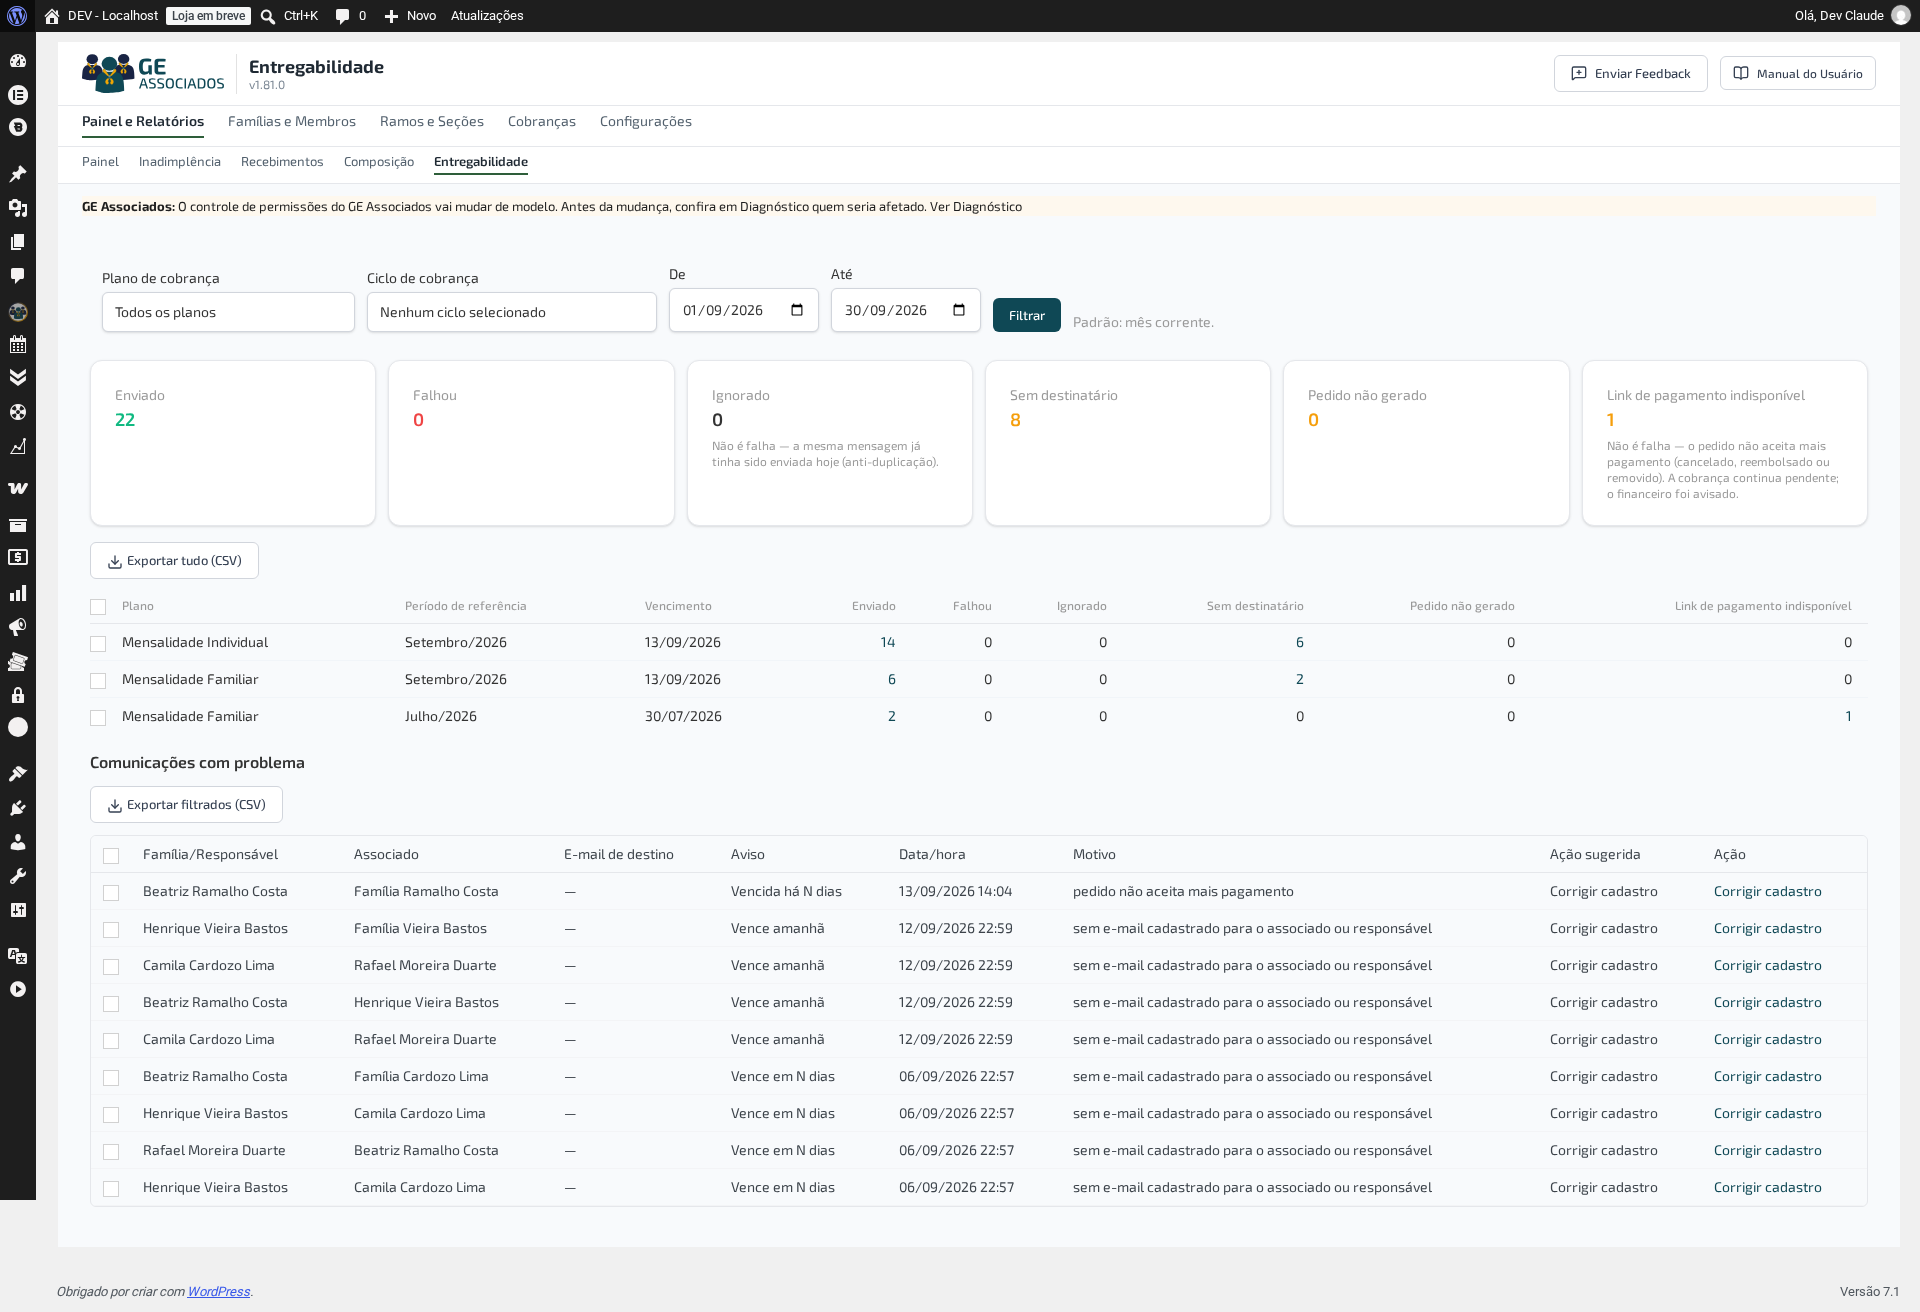
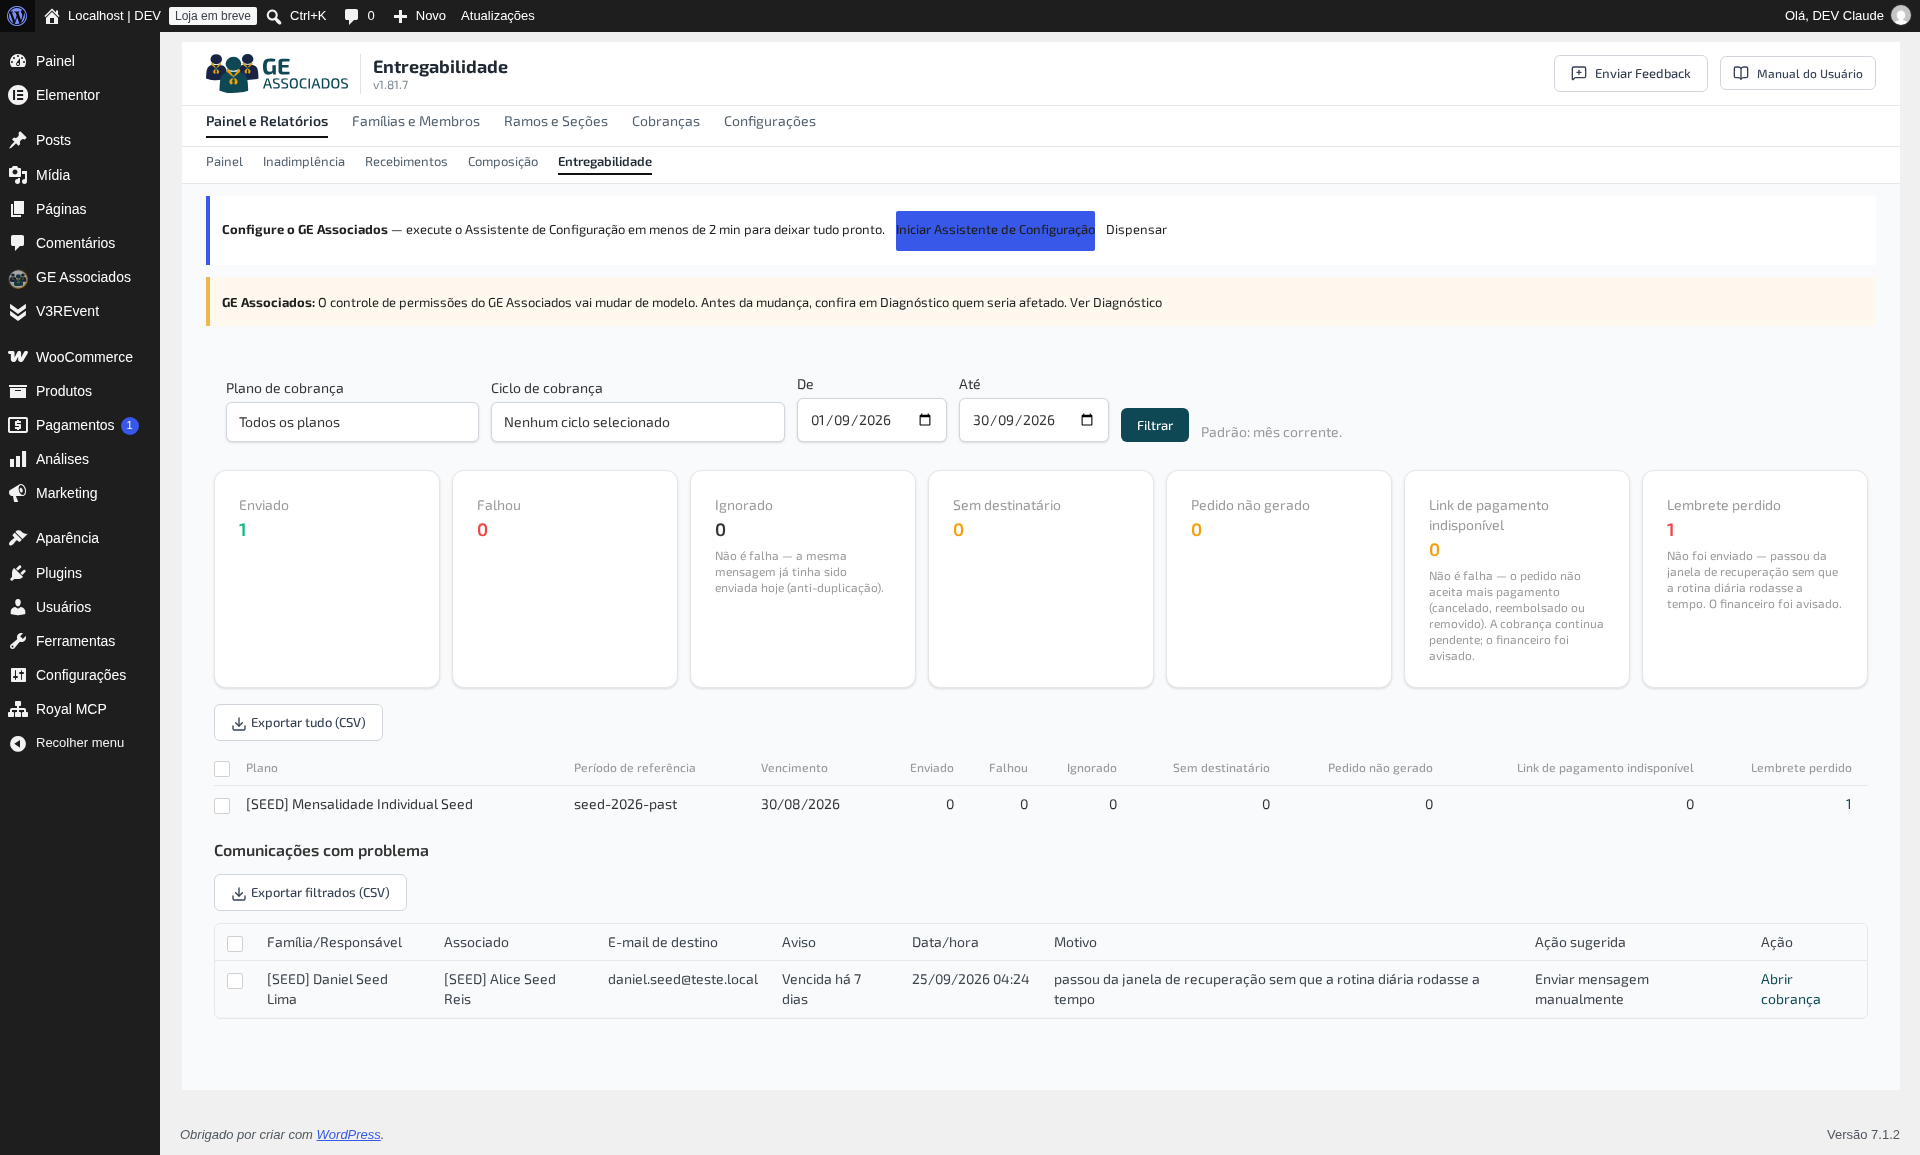
docs: manual cobre os dias em atraso, o lembrete perdido e a recuperação de 3 dias
Comunicação: novo marcador de dias em atraso nos modelos de e-mail, com o
número calculado no envio.
Entregabilidade: a sétima situação, "Lembrete perdido" — o que é, por que
não tem volta, por que aparece na lista por padrão e por que não pode ser
reenviada, sozinha ou em lote.
Inadimplência: a última comunicação passou a dizer qual aviso saiu.
Novidades: as duas entradas correspondentes.

Prints da Entregabilidade recapturados na v1.81.7, depois da troca de
"cron" por "rotina diária" no texto da tela — as capturas anteriores tinham
congelado o jargão. Print novo do modelo de e-mail com o marcador.

Corrige também um alt-text que dizia "cinco situações" quando o texto já
falava em seis.

diff --git a/modulos/entregabilidade.md b/modulos/entregabilidade.md
@@ -11,7 +11,7 @@ nav_order: 5
 Mostra, por ciclo de cobrança, se os e-mails realmente chegaram aos responsáveis — e deixa
 corrigir e reenviar direto daqui, sem precisar caçar cada caso por fora.
 
-![Relatório de entregabilidade por ciclo, com as cinco situações de envio somadas no topo e detalhadas por ciclo na tabela](/assets/img/relatorio-entregabilidade.png)
+![Relatório de entregabilidade por ciclo, com as sete situações de envio somadas no topo e detalhadas por ciclo na tabela](/assets/img/relatorio-entregabilidade.png)
 
 ## Filtros
 
@@ -21,7 +21,7 @@ escolha.
 
 ## O que você vê
 
-Por ciclo, cada e-mail cai em uma de seis situações:
+Por ciclo, cada e-mail cai em uma de sete situações:
 
 | Situação | O que significa | O que fazer |
 |---|---|---|
@@ -31,20 +31,31 @@ Por ciclo, cada e-mail cai em uma de seis situações:
 | **Sem destinatário** | Não havia e-mail cadastrado para aquela cobrança | Cadastrar o e-mail do responsável ou do associado |
 | **Pedido não gerado** | A cobrança ainda não virou pedido, então não existe link de pagamento | Gerar o pedido em [Cobranças](/modulos/cobrancas/) |
 | **Link de pagamento indisponível** | O pedido existe, mas não aceita mais pagamento — já foi concluído ou cancelado direto no WooCommerce | Conferir o status da cobrança; se ainda precisa cobrar, gerar um pedido novo |
+| **Lembrete perdido** | O lembrete de atraso não saiu no dia certo, a tentativa de recuperação (até 3 dias) também passou, e o envio automático já não vai mais acontecer para aquela cobrança | Enviar mensagem manualmente — veja [Inadimplência](/modulos/inadimplencia/#enviar-mensagem) |
 
 {: .tip }
 Se um responsável reclamar que não recebeu a cobrança, esta é a tela para verificar antes
 de qualquer outra coisa. As situações têm causas diferentes e soluções diferentes —
 "falhou" é problema de envio do site, "sem destinatário" é cadastro incompleto, "pedido
-não gerado" é cobrança que ainda não está pronta para ser paga, e "link de pagamento
-indisponível" é um pedido que já saiu de circulação.
+não gerado" é cobrança que ainda não está pronta para ser paga, "link de pagamento
+indisponível" é um pedido que já saiu de circulação, e "lembrete perdido" é um aviso que
+não tem mais como sair automaticamente.
 
 {: .important }
-**"Pedido não gerado" e "Link de pagamento indisponível" são os únicos que representam
-aviso que o responsável não recebeu por decisão do sistema.** Nos dois casos, o lembrete é
-segurado de propósito — não faria sentido pedir que alguém pague sem oferecer como, ou
-oferecer um link que não funciona mais. O financeiro recebe um aviso por e-mail quando
-isso acontece, e o Painel também sinaliza.
+**"Pedido não gerado" e "Link de pagamento indisponível" são recuperáveis: resolvido o que
+falta (gerar o pedido, gerar um novo link), o próximo envio automático sai normalmente.**
+Nos dois casos o lembrete é segurado de propósito — não faria sentido pedir que alguém
+pague sem oferecer como, ou oferecer um link que não funciona mais. O financeiro recebe um
+aviso por e-mail quando isso acontece, e o Painel também sinaliza.
+
+{: .warning }
+**"Lembrete perdido" é diferente: não tem volta.** A rotina diária que dispara os avisos de
+atraso tem uma margem de até 3 dias corridos para recuperar um envio que não saiu no dia
+exato — por exemplo, se o site ficou fora do ar naquela madrugada. Passados os 3 dias sem
+conseguir enviar, o sistema desiste daquele aviso especificamente: ele não sai mais para o
+associado, o cadastro não tem nada de errado para corrigir, e a única forma de o
+responsável ainda ser avisado é você mandar a mensagem à mão pela Inadimplência. O
+financeiro recebe o mesmo aviso consolidado por e-mail sobre esses casos.
 
 ## Comunicações com problema
 
@@ -54,9 +65,19 @@ isso acontece, e o Painel também sinaliza.
 
 Abaixo dos cartões e da tabela por ciclo, a lista **Comunicações com problema** fica
 **sempre visível** — antes era preciso clicar num número para descobrir que ela existia.
-Cada linha traz o nome, a cobrança, o **motivo em linguagem simples** (não o texto cru que
-o servidor de e-mail devolveu) e uma **ação sugerida**: corrigir cadastro ou tentar de
-novo, conforme o caso.
+Cada linha traz o nome, a cobrança, o **e-mail de destino**, o **motivo em linguagem
+simples** (não o texto cru que o servidor de e-mail devolveu) e uma **ação sugerida**:
+corrigir cadastro, tentar de novo ou enviar manualmente, conforme o caso.
+
+**"Lembrete perdido" entra nessa lista por padrão**, junto com falhou, sem destinatário,
+pedido não gerado e link de pagamento indisponível — sem precisar escolher esse filtro. É
+a situação mais grave da lista, então ficar escondida atrás de um filtro só faria esconder
+o caso que mais precisa de atenção. Na linha, o **e-mail de destino** mostra o endereço que
+**teria recebido** o aviso — útil para saber a quem procurar, mesmo sem ter saído e-mail
+nenhum — e a **ação sugerida** é "Enviar mensagem manualmente", porque não há cadastro
+para corrigir: o e-mail estava certo, o que faltou foi a rotina diária rodar a tempo. O
+link da linha abre a cobrança direto, para você registrar o contato ou mandar a mensagem
+pela Inadimplência.
 
 {: .tip }
 Se um responsável reclamar que não recebeu a cobrança, esta lista é o primeiro lugar a
@@ -86,6 +107,12 @@ de fora** — por exemplo, itens sem destinatário, que não têm para onde reen
 processar, o resultado aparece **item por item**: enviados, recusados por alguma regra (como
 a de não repetir no mesmo dia — veja [Inadimplência](/modulos/inadimplencia/#enviar-mensagem))
 e falhos.
+
+{: .note }
+**"Lembrete perdido" não tem botão de reenviar, nem sozinho nem em lote — de propósito.**
+Selecionando esse item numa seleção em lote, ele entra na contagem de "ficará de fora",
+com o motivo. O envio automático para aquela cobrança específica não existe mais; o que
+resta é mandar a mensagem manualmente pela Inadimplência.
 
 ## O que você faz aqui
 

diff --git a/novidades.md b/novidades.md
@@ -8,6 +8,28 @@ nav_order: 13
 Um resumo, em linguagem simples, do que mudou nas versões mais recentes — o que interessa
 para quem usa o plugin no dia a dia, não o registro técnico completo.
 
+## Entregabilidade ganha a situação "Lembrete perdido"
+
+Quando um aviso de atraso não sai no dia certo, a rotina diária agora tenta de novo por
+até 3 dias — antes, um lembrete perdido nesse intervalo se perdia de vez, em silêncio.
+Passado esse prazo sem conseguir enviar, a cobrança entra na nova situação **Lembrete
+perdido**: o aviso não sai mais para o associado, o financeiro é avisado, e a única forma
+de o responsável ainda saber é você mandar a mensagem à mão. Essa situação aparece por
+padrão na lista de comunicações com problema, com o e-mail de quem teria recebido e um
+link direto para a cobrança — mas não pode ser reenviada pela tela, porque o cadastro não
+tem nada de errado para corrigir. Veja
+[Entregabilidade](/modulos/entregabilidade/#o-que-você-vê).
+
+## O aviso de atraso passa a dizer o número certo de dias
+
+O e-mail de cobrança em atraso dizia sempre o mesmo número de dias — o do modelo escolhido
+— mesmo quando o atraso já era maior, por exemplo num reenvio manual. Agora o assunto e o
+corpo mostram o número real no momento do envio. Na Inadimplência, no histórico de
+Comunicação e na Entregabilidade, o rótulo do último envio também passa a completar o
+número — "Vencida há 7 dias" ou "Vencida há 30 dias", em vez do genérico de antes. Veja
+[Comunicação](/modulos/comunicacao/#o-número-de-dias-em-atraso-calculado-no-envio) e
+[Inadimplência](/modulos/inadimplencia/#o-que-você-vê).
+
 ## O filtro escolhido acompanha você entre as abas de Relatórios
 
 Escolheu um plano, um ciclo ou um período no Painel? A mesma escolha agora vale em

diff --git a/modulos/comunicacao.md b/modulos/comunicacao.md
@@ -46,6 +46,22 @@ marcador `{linhas_membros}` no corpo, no ponto onde a lista deve aparecer. Model
 pelo operador não recebe marcador novo sozinho — é você quem decide se quer a lista e onde
 ela entra.
 
+### O número de dias em atraso, calculado no envio
+
+![Edição do modelo "Vencida há N dias", com o marcador {dias_atraso} no assunto e no corpo](/assets/img/comunicacao-modelo-dias-atraso.png)
+
+Nos modelos de cobrança em atraso (**Vencida há N dias** e **Cobrança formal de atraso**),
+o marcador `{dias_atraso}` insere o número real de dias em atraso **no momento em que o
+e-mail é enviado** — no assunto e no corpo. Antes, esse número vinha fixo do próprio texto
+do modelo (por exemplo, "há 7 dias" no modelo pensado para disparar no 7º dia); um reenvio
+manual dias depois, ou um envio que saísse fora do dia previsto, repetia o número errado.
+
+{: .note }
+Instalações que já usam o plugin recebem o marcador automaticamente nos modelos que o
+operador nunca editou — mesma regra de sempre. Modelo já personalizado por você continua
+exatamente como você deixou; para usar o número real nele, insira `{dias_atraso}` onde
+quiser que ele apareça.
+
 ## Cobrança sem valor a pagar
 
 ![Aba Visão geral com a linha do modelo "Cobrança sem valor a pagar" na tabela de modelos](/assets/img/comunicacao-modelo-sem-valor.png)

diff --git a/modulos/inadimplencia.md b/modulos/inadimplencia.md
@@ -37,6 +37,16 @@ cada dia), os **dias de atraso**, a **faixa de atraso**, o **vencimento**, o **p
 **ciclo**, o **pedido** (o número do pedido WooCommerce), **outras cobranças em aberto**
 da mesma família e a **última comunicação enviada**, com o contato usado.
 
+A **última comunicação enviada** mostra qual aviso saiu, não só que algo saiu — por
+exemplo, "Vencida há 7 dias" ou "Vencida há 30 dias", com o número real de dias em atraso
+no momento daquele envio.
+
+{: .note }
+Se a última linha for **"Lembrete perdido"** (em vermelho, abaixo da data), aquele aviso
+específico não saiu — a rotina diária não conseguiu recuperá-lo a tempo. Veja
+[Entregabilidade](/modulos/entregabilidade/#o-que-você-vê) para o que isso significa e
+mande a mensagem manualmente por [Enviar mensagem](#enviar-mensagem) abaixo.
+
 {: .important }
 **"Enviado" na última comunicação quer dizer que o servidor aceitou o envio — não que a
 família já leu, nem que a mensagem chegou de fato à caixa de entrada.** Para saber se um
